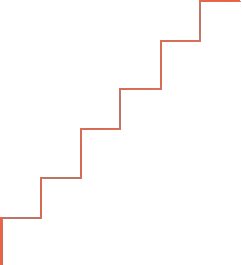
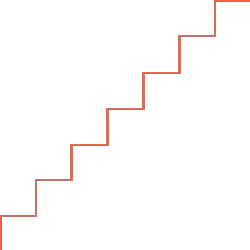
add figures

Changed region(s): [[0.0, 0.0, 0.8967, 1.0], [0.9835, 0.0, 1.0, 0.028]]

diff --git a/src/app/components/main/welcome/welcome.component.html b/src/app/components/main/welcome/welcome.component.html
@@ -1,17 +1,14 @@
 <main>
   <div class="left">
     <div class="cont">
-      <div>
+      <div class="titles">
         <h1>Full-stack<br>developer.</h1>
         <h2>Lorem ipsum dolor sit amet consectetur adipisicing elit. 
-          Beatae facere voluptatibus eius sit dolore reiciendis distinctio quis officia aliquid quam eum hic nisi, qui voluptates, 
-          ex quia sunt excepturi magnam!</h2>
+          Beatae facere voluptatibus eius</h2>
       </div>
       <div class="messages">
-        <p>Lorem ipsum dolor sit amet consectetur, adipisicing elit. Minima, itaque maiores rerum, voluptatum fugit officia ducimus quo est fuga, 
-          consequatur quia qui quis delectus optio distinctio esse excepturi dicta amet?</p>
-        <p>Lorem ipsum dolor sit amet consectetur adipisicing elit. Cupiditate, temporibus omnis molestiae aperiam corrupti delectus doloremque! 
-          Incidunt, corrupti et possimus rem nulla animi vitae, excepturi obcaecati dicta molestias, enim fugiat?</p>
+        <p>Lorem ipsum dolor sit amet consectetur, adipisicing elit. Minima, itaque maiores rerum, voluptatum fugit officia?</p>
+        <p>Lorem ipsum dolor sit amet consectetur adipisicing elit. Cupiditate</p>
       </div>
     </div>
   </div>
@@ -21,6 +18,18 @@
     <img ngSrc="../../../../assets/images/profile-image.jpg" priority fill alt="kevin profile picture">
   </button>
   <button type="button" class="stairs">
-    <img ngSrc="../../../../assets/images/stairs.png" priority fill alt="kevin profile picture">
+    <img ngSrc="../../../../assets/images/stairs.png" priority fill alt="detail">
+  </button>
+  <button type="button" class="stairs-2">
+    <img ngSrc="../../../../assets/images/stairs.png" priority fill alt="detail">
+  </button>
+  <button type="button" class="stairs-3">
+    <img ngSrc="../../../../assets/images/stairs.png" priority fill alt="detail">
+  </button>
+  <button type="button" class="points">
+    <img ngSrc="../../../../assets/images/points.png" priority fill alt="detail">
+  </button>
+  <button type="button" class="points-2">
+    <img ngSrc="../../../../assets/images/points-2.png" fill alt="detail">
   </button>
 </main>

diff --git a/src/app/components/main/welcome/welcome.component.scss b/src/app/components/main/welcome/welcome.component.scss
@@ -29,14 +29,20 @@ main {
   width: 20vw;
   height: 20vw;
   right: 25vw;
+  z-index: 100;
 }
 
 .cont {
   width: 60%;
+  margin-top: 5vw;
 }
 
 .messages {
   display: flex;
+  gap: 3vw;
+  &>p {
+    width: 50%;
+  }
 }
 
 .square {
@@ -50,9 +56,46 @@ main {
 
 .stairs {
   position: absolute;
-  max-width: 5vw;
-  width: 5vw;
-  height: 4vw;
+  width: 8vw;
+  height: 8vw;
   top: 15vw;
   right: 15vw;
+}
+
+.stairs-2 {
+  position: absolute;
+  width: 4vw;
+  height: 4vw;
+  top: 15vw;
+  right: 45vw;
+  transform: rotate(45deg);
+}
+
+.stairs-3 {
+  position: absolute;
+  width: 5vw;
+  height: 5vw;
+  top: 25vw;
+  right: 43vw;
+  transform: rotate(100deg);
+}
+
+.points {
+  position: absolute;
+  width: 7vw;
+  height: 7vw;
+  top: 25vw;
+  right: 20vw;
+}
+
+.points-2 {
+  position: absolute;
+  width: 5vw;
+  height: 5vw;
+  top: 7vw;
+  right: 43vw;
+}
+
+.titles {
+  margin-bottom: 5vw;
 }
